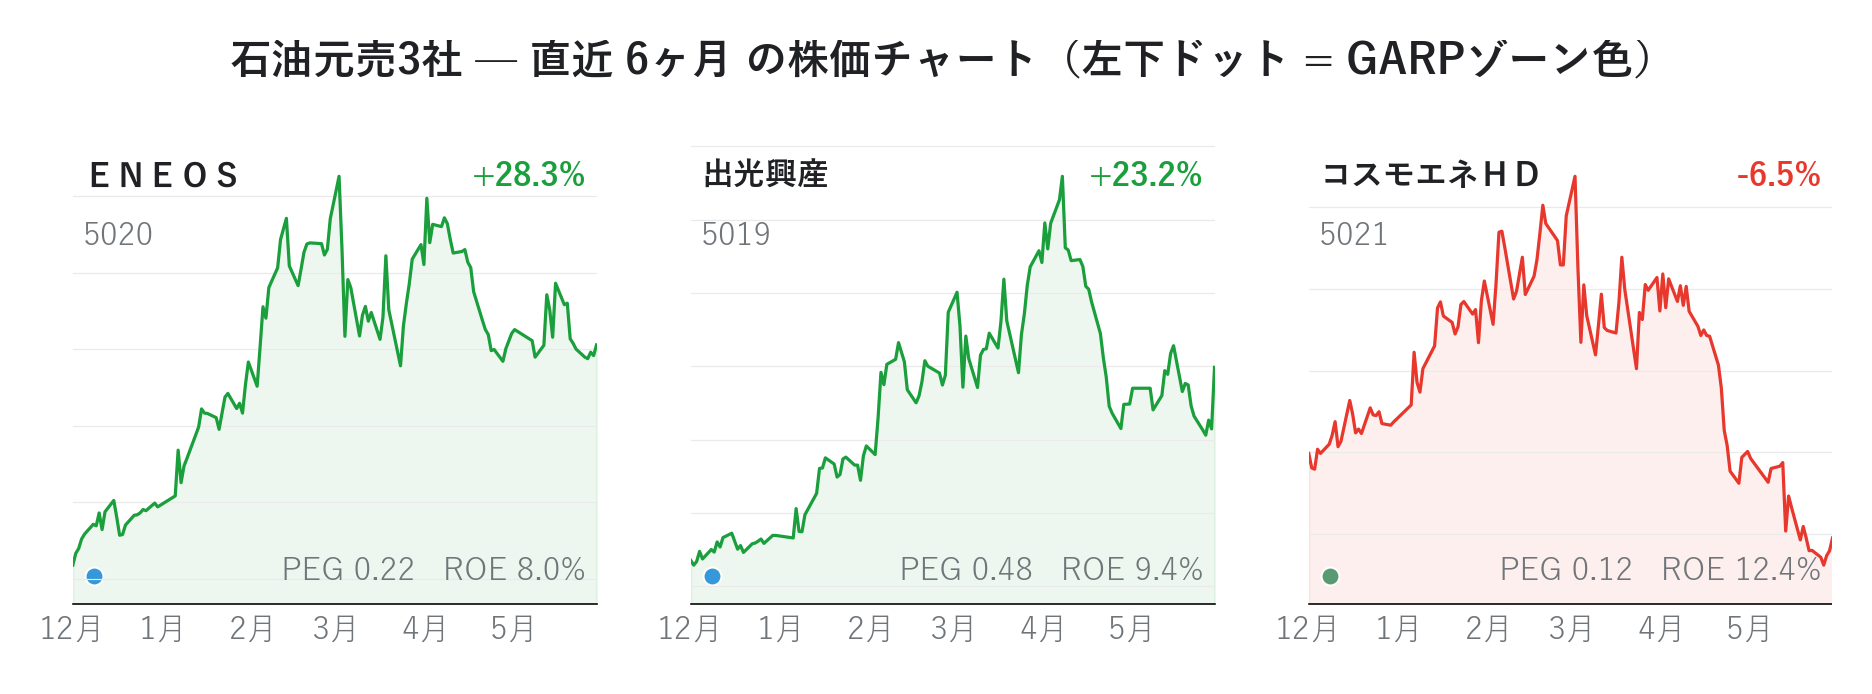
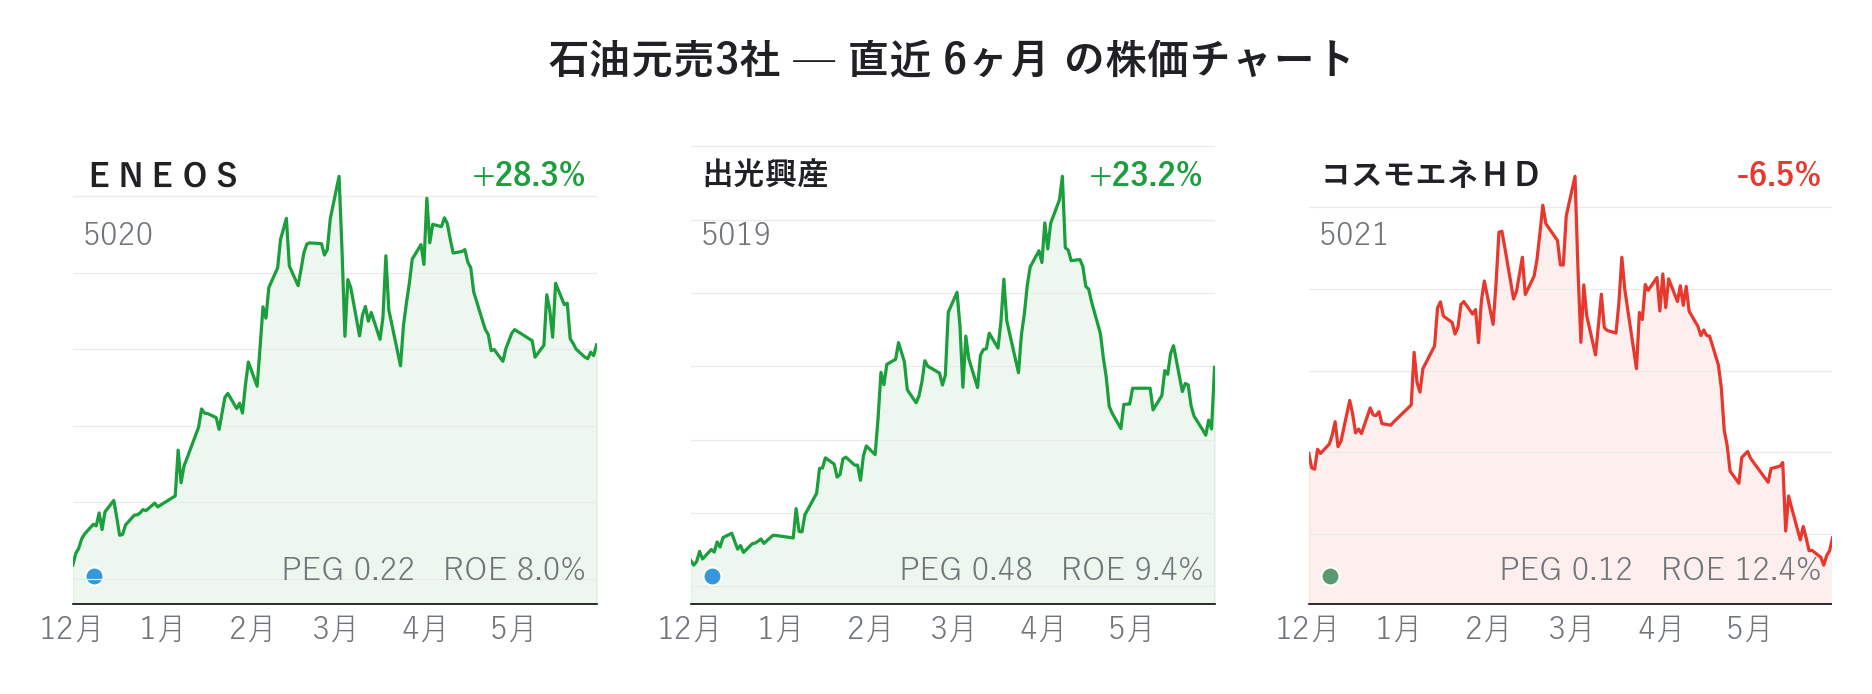
Update main source

Changed region(s): [[0.2788, 0.0605, 0.8985, 0.121], [0.1239, 0.0605, 0.2479, 0.121]]

diff --git a/docs/blog/posts/02-07_narrative_car.md b/docs/blog/posts/02-07_narrative_car.md
@@ -40,10 +40,10 @@ tags:
 
 ## 例で見る ― 主要 5 社の決算の効き
 
-同業の動きも除いた **セクター超過 CAR**（業界の追い風を引いた純粋な個別反応）で、5 社の決算を 1 回ずつ並べます。事前のファンダ評価が、市場の反応にそのまま表れるかを見ます。
+ここでは 5 社それぞれの **前期（2025/3 期）サイクルの決算ごと**（24/3 期通期〜25/3 期通期）に、決算後の超過リターン（CAR[-1,+20]）を時系列で並べます。棒は 2 本 ― <span style="color:#2E86AB">━</span> TOPIX 超過（市場全体を差し引いた分）と <span style="color:#E26A2C">━</span> セクター超過（同業の動きも差し引いた、純粋な個別反応）です。**上に伸びれば決算後に買われ、下なら売られた** ことを表します。縦軸の目盛りは社ごとに異なる点に注意しつつ、事前のファンダ評価が市場の反応に表れるかを見ます（**最新の 2026/3 期サイクルの反応は連載 3-2** で扱います）。
 
 <p class="fig-meta"><i class="fa-solid fa-expand"></i> クリックで拡大</p>
-<p class="fig-meta">使用データ<br><i class="fa-solid fa-caret-right"></i>yfinance：株価 日足、ベンチマーク TOPIX＋セクターETF（エネルギー・卸売、2026年5月31日取得）<br><i class="fa-solid fa-caret-right"></i>TDnet（決算短信）：開示ログ＝決算発表日（2025年3月期・2026年3月期）</p>
+<p class="fig-meta">使用データ<br><i class="fa-solid fa-caret-right"></i>yfinance：株価 日足、ベンチマーク TOPIX＋セクターETF（エネルギー・卸売、2026年5月31日取得）<br><i class="fa-solid fa-caret-right"></i>TDnet（決算短信）：開示ログ＝決算発表日（24/3期通期〜25/3期通期、2024-05〜2025-05）</p>
 
 ![5社の決算ごとCAR推移](img/09_car_event_study/04_narrative5_timeline.png){width="1200"}
 

diff --git a/docs/blog/posts/02-01_garp_peg_roe.md b/docs/blog/posts/02-01_garp_peg_roe.md
@@ -104,6 +104,8 @@ GARP だけ見ればコスモが魅力的です。では直近 6 ヶ月の株価
 
 ![石油元売3社 チャート](img/04_garp_peg_roe/05_oil_charts.png){width="1200"}
 
+<p class="fig-meta">騰落率：6ヶ月騰落率<br>左下ドット ：GARPゾーン色</p>
+
 - **GARP 理想ゾーンのコスモだけが −6.5% と下落**
 - ROE で劣る ＥＮＥＯＳ は +28.3%、出光は +23.2% と上昇 ― GARP 評価と株価騰落の順位が逆転
 
